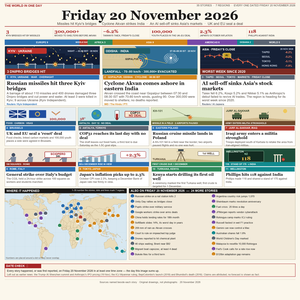
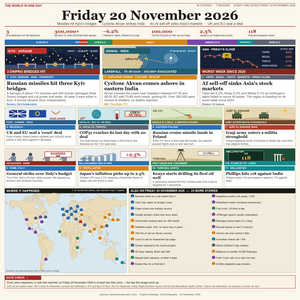
Tighten bottom margin: pull date check and source toward the foot, expand map/list panel

Changed region(s): [[0.0, 0.66, 0.99, 0.99], [0.0, 0.36, 0.99, 0.63]]

diff --git a/build.py b/build.py
@@ -579,7 +579,7 @@ def build():
         mark('main%d' % num, (x0, y0, x0+cw, y0+ch))
 
     # ---- eight small cards, enlarged so each holds a real illustration
-    g2 = 6; sw = (W-2*M-3*g2)/4; sh = 132; ih2 = 60
+    g2 = 6; sw = (W-2*M-3*g2)/4; sh = 132; ih2 = 57
     for i, num in enumerate(range(4, 12)):
         s = BY_NUM[num]; row, cc = i//4, i%4
         x0 = M+cc*(sw+g2); y0 = 366+row*(sh+8)
@@ -591,51 +591,51 @@ def build():
         tx(d, x0+6, yy+2, '%d · %s' % (num, s[2]), F(8.4, True), WHITE)
         yy += 18
         hl = tw(d, s[4], F(13.2, True, serif=True), sw-11)[:3]
-        yy = tlines(d, x0+6, yy, hl, F(13.2, True, serif=True), INK, lineh=14.8)
+        yy = tlines(d, x0+6, yy, hl, F(13.2, True, serif=True), INK, lineh=14.2)
         yy += 2
         bl = tw(d, s[5], F(9.2), sw-11)[:2]
-        tlines(d, x0+6, yy, bl, F(9.2), MUTED, lineh=11.0)
+        tlines(d, x0+6, yy, bl, F(9.2), MUTED, lineh=10.6)
         mark('small%d' % num, (x0, y0, x0+sw, y0+sh))
 
     # ---- map + remaining stories
-    y0 = 660; mbox = (M, y0, 432, 886)
+    y0 = 660; mbox = (M, y0, 432, 930)
     rc(d, (M, y0-17, 432, y0-1), INK)
     tx(d, M+6, y0-15, 'WHERE IT HAPPENED', F(10.5, True), WHITE)
     tx(d, 426, y0-15, '1–35 number the stories; dots and lines mark 7 regions.', F(7.6), WHITE, anchor='ra')
     draw_map(d, mbox)
-    tx(d, M+4, 876, 'Numbers are placed around a dot so they never overlap.', F(7.8), MUTED)
+    tx(d, M+4, 920, 'Numbers are placed around a dot so they never overlap.', F(7.8), MUTED)
 
     lx0, lx1 = 440, W-M
     rc(d, (lx0, y0-17, lx1, y0-1), INK)
     tx(d, lx0+6, y0-15, 'ALSO ON FRIDAY 20 NOVEMBER 2026  —  24 MORE STORIES', F(10.2, True), WHITE)
-    rc(d, (lx0, y0, lx1, 886), PANEL, outline='#BEB5A2', width=1)
+    rc(d, (lx0, y0, lx1, 930), PANEL, outline='#BEB5A2', width=1)
     items = [s for s in STORIES if s[0] >= 12]
     half = (len(items)+1)//2; colw = (lx1-lx0-14)/2
     for j, s in enumerate(items):
         cc, rw = j//half, j % half
-        cx = lx0+7+cc*colw; cy = y0+5+rw*18.0
+        cx = lx0+7+cc*colw; cy = y0+5+rw*21.0
         col = REG[s[1]]['c']
         ci(d, cx+5, cy+4, 5.8, fill=col)
         tc(d, cx+5, cy+6, str(s[0]), F(7.2, True), WHITE)
         tlines(d, cx+14, cy, tw(d, s[4], F(8.6), colw-19)[:1], F(8.6), INK, lineh=10.0)
-    mark('list', (lx0, y0, lx1, 886))
+    mark('list', (lx0, y0, lx1, 930))
 
-    # ---- compact date check, pulled down toward the foot
-    rc(d, (M, 900, W-M, 944), '#FBF3E4', outline=RED, width=1.3)
-    rc(d, (M, 900, M+124, 915), RED)
-    tx(d, M+5, 902, 'DATE CHECK  ✓', F(9.6, True), WHITE)
-    tx(d, M+8, 919, 'Every story happened, or was first reported, on Friday 20 November 2026 in at least one time zone — the day this image sums up.',
+    # ---- compact date check, pulled down close to the foot
+    rc(d, (M, 940, W-M, 984), '#FBF3E4', outline=RED, width=1.3)
+    rc(d, (M, 940, M+124, 955), RED)
+    tx(d, M+5, 942, 'DATE CHECK  ✓', F(9.6, True), WHITE)
+    tx(d, M+8, 959, 'Every story happened, or was first reported, on Friday 20 November 2026 in at least one time zone — the day this image sums up.',
        F(9.2), INK)
     dc = ("Left out as earlier news: the Trump–Xi Shenzhen summit and Anthropic's IPO pricing (19 Nov); the ICJ Myanmar ruling, "
           "BepiColombo's launch (2018) and Bhumibol's death (2016). Claims are attributed; no forecast is shown as fact.")
-    tlines(d, M+8, 932, tw(d, dc, F(8.6), W-2*M-16)[:2], F(8.6), MUTED, lineh=10.2)
-    mark('datecheck', (M, 900, W-M, 944))
+    tlines(d, M+8, 972, tw(d, dc, F(8.6), W-2*M-16)[:2], F(8.6), MUTED, lineh=10.2)
+    mark('datecheck', (M, 940, W-M, 984))
 
-    # ---- sources hugging the bottom edge with an even margin
-    ln(d, [(M, 954), (W-M, 954)], '#C9BFA9', 0.8)
-    tc(d, W/2, 958, 'Sources named beside each story · Original drawings, not photographs · 20 November 2026',
+    # ---- sources hugging the bottom edge with a tight, even margin
+    ln(d, [(M, 994), (W-M, 994)], '#C9BFA9', 0.8)
+    tc(d, W/2, 1000, 'Sources named beside each story · Original drawings, not photographs · 20 November 2026',
        F(8.8), MUTED)
-    mark('footer', (M, 954, W-M, 1000))
+    mark('footer', (M, 994, W-M, 1020))
 
     im = im.resize((W, H), Image.LANCZOS)
     os.makedirs(OUT_DIR, exist_ok=True)
